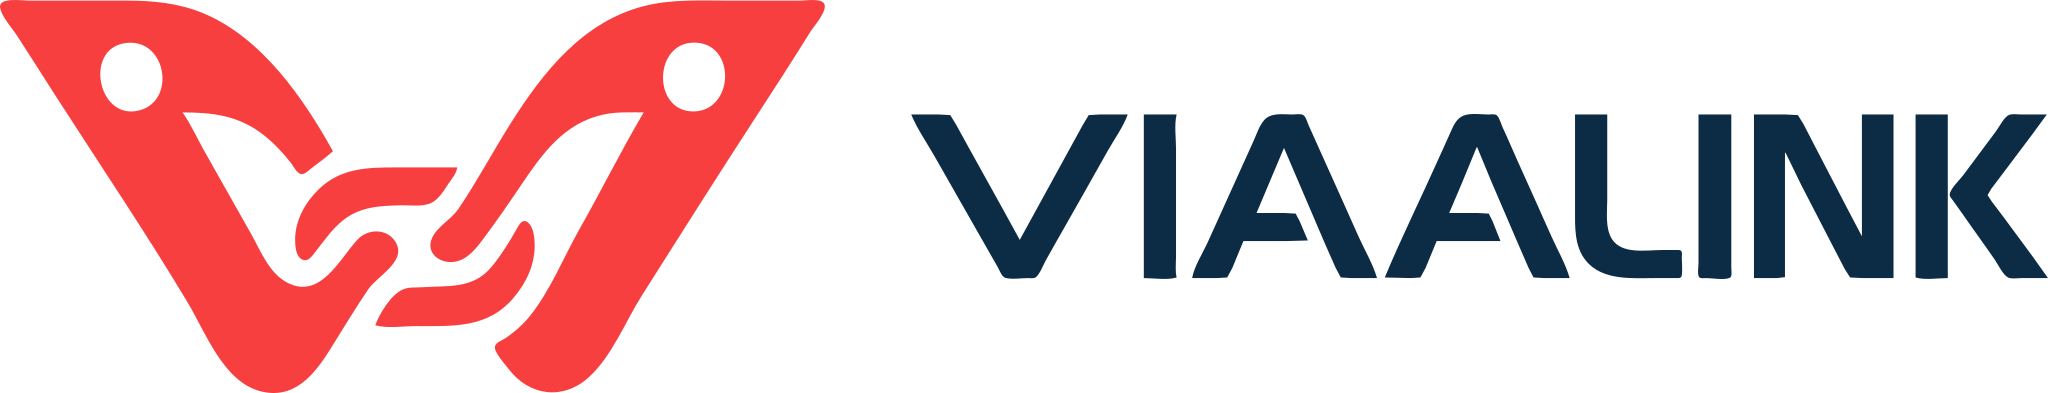
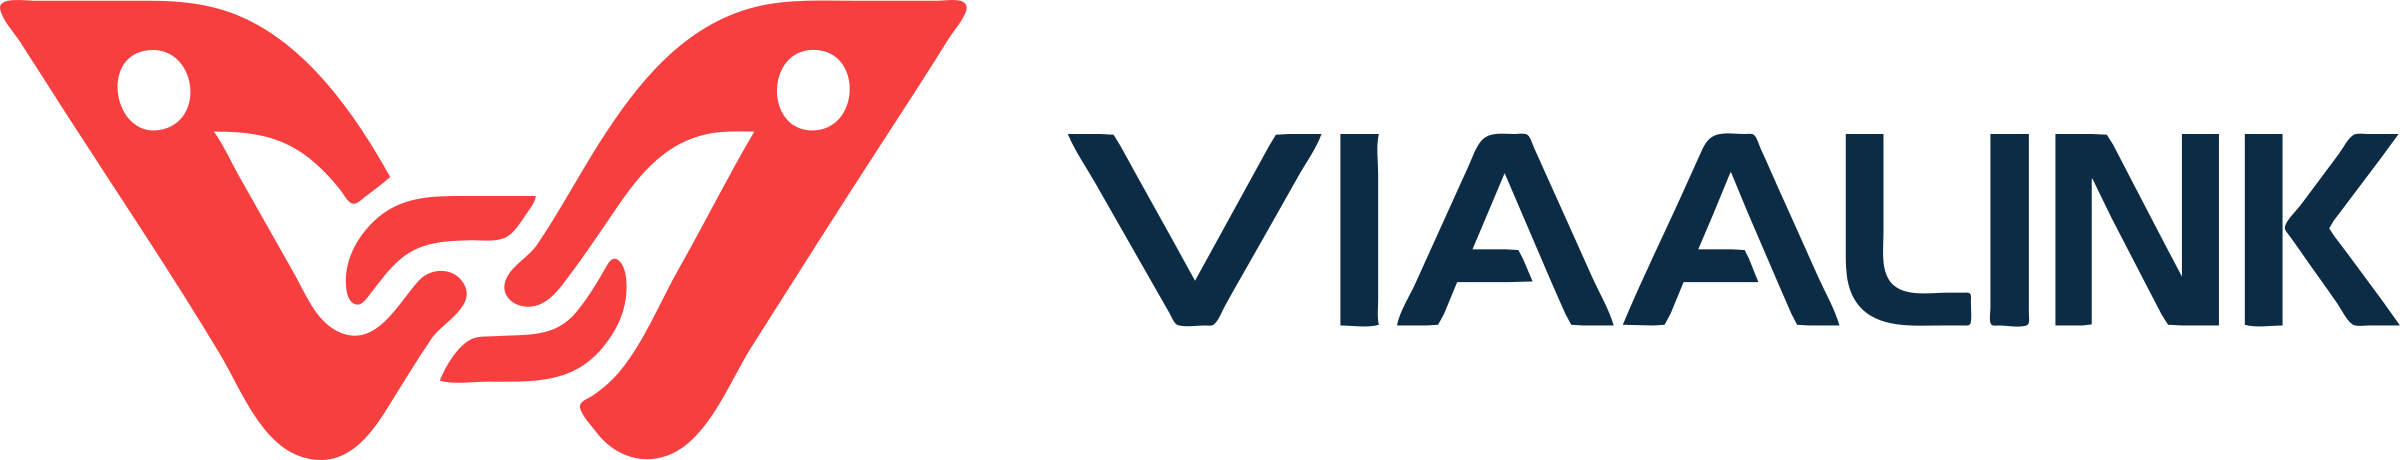
feat(vscode): demo film in 2160p for YouTube; transparent wordmarks rendered from the SVGs

diff --git a/vscode-extension/demo/scripts/render.ts b/vscode-extension/demo/scripts/render.ts
@@ -31,8 +31,16 @@ const TITLE_SECONDS = 3.4;
 /** Viaalink wordmark (red mark, navy letters, transparent), from the website's static assets. */
 const LOGO = resolve(__dirname, "..", "assets", "viaalink-wordmark.png");
 
-/** The same wordmark flattened on a white tab, for the corner of the film (assets/README). */
-const LOGO_TAB = resolve(__dirname, "..", "assets", "viaalink-wordmark-tab.png");
+/** The dark-background wordmark (red mark, light letters, transparent), for the corner of the film. */
+const LOGO_DARK = resolve(__dirname, "..", "assets", "viaalink-wordmark-dark.png");
+
+/**
+ * The film is delivered at 2160p even though it is recorded at 1080p. YouTube
+ * gives 4K uploads its better codec and a far higher bitrate at EVERY quality,
+ * 1080p included; a 1080p screencast comes back soft enough that code is hard
+ * to read. Override with DEMO_OUTPUT_HEIGHT=1080 for a small local file.
+ */
+const OUTPUT_HEIGHT = Number(process.env["DEMO_OUTPUT_HEIGHT"] ?? 2160);
 
 /** The logo as an endless still, for overlaying; `movie=` keeps the input list (and voice indexes) untouched. */
 function logoSource(width: number, label: string, file = LOGO): string {
@@ -352,14 +360,14 @@ function main(): void {
   const inputs: string[] = ["-i", tl.video];
   graph.push(
     `[0:v]trim=start=${tl.leaderMs / 1000}:duration=${tl.totalMs / 1000},setpts=PTS-STARTPTS,` +
-      `fps=30,subtitles=filename=${assPath}${existsSync(LOGO_TAB) ? "[film]" : ",format=yuv420p[main]"}`
+      `fps=30,subtitles=filename=${assPath}${existsSync(LOGO_DARK) ? "[film]" : ",format=yuv420p[main]"}`
   );
-  if (existsSync(LOGO_TAB)) {
-    // A small wordmark on a white tab, top right: clear of the editor tabs'
+  if (existsSync(LOGO_DARK)) {
+    // A small transparent wordmark, top right: clear of the editor tabs'
     // actions, and of the bottom right where the status bar item and the
     // "Caddy updated" toast are part of the story.
     graph.push(
-      logoSource(228, "bug", LOGO_TAB),
+      `${logoSource(210, "buglogo", LOGO_DARK)};[buglogo]colorchannelmixer=aa=0.9[bug]`,
       "[film][bug]overlay=x=W-w-24:y=56:shortest=1,format=yuv420p[main]"
     );
   }
@@ -474,6 +482,11 @@ function main(): void {
     }
   }
 
+  // Lanczos up to the delivery height last, so every overlay and caption is
+  // drawn once at the recording's own size.
+  const upscale = OUTPUT_HEIGHT > tl.height;
+  if (upscale) graph.push(`[v]scale=-2:${OUTPUT_HEIGHT}:flags=lanczos,format=yuv420p[vout]`);
+
   run([
     "ffmpeg",
     "-y",
@@ -483,7 +496,7 @@ function main(): void {
     "-filter_complex",
     graph.join(";"),
     "-map",
-    "[v]",
+    upscale ? "[vout]" : "[v]",
     ...(audio ? ["-map", "[a]"] : []),
     "-c:v",
     "libx264",

diff --git a/vscode-extension/demo/assets/README.md b/vscode-extension/demo/assets/README.md
@@ -1,5 +1,6 @@
-Viaalink brand assets for the demo film's cards and corner tab.
+Viaalink brand assets for the demo film. The SVGs are copied from the viaalink-website repo (`static/assets/logo-wordmark.svg` and `logo-wordmark-dark.svg`). The PNGs are rendered from them with transparency:
 
-- `viaalink-wordmark.png` is `static/assets/logo-wordmark@2x.png` from the viaalink-website repo (red mark, navy letters, transparent).
-- `viaalink-wordmark-tab.png` is that wordmark at 200 px on a 228×60 white tab:
-  `ffmpeg -f lavfi -i color=c=white:s=228x60 -i viaalink-wordmark.png -filter_complex "[1:v]scale=200:-1[l];[0:v][l]overlay=(W-w)/2:(H-h)/2,format=rgb24" -frames:v 1 viaalink-wordmark-tab.png`
+- `viaalink-wordmark.png`: red mark and navy letters, for the white title and end cards.
+  `inkscape viaalink-wordmark.svg --export-type=png --export-width=2400 --export-filename=viaalink-wordmark.png`
+- `viaalink-wordmark-dark.png`: red mark and light letters, for the corner of the dark film.
+  `inkscape viaalink-wordmark-dark.svg --export-type=png --export-width=1200 --export-filename=viaalink-wordmark-dark.png`
